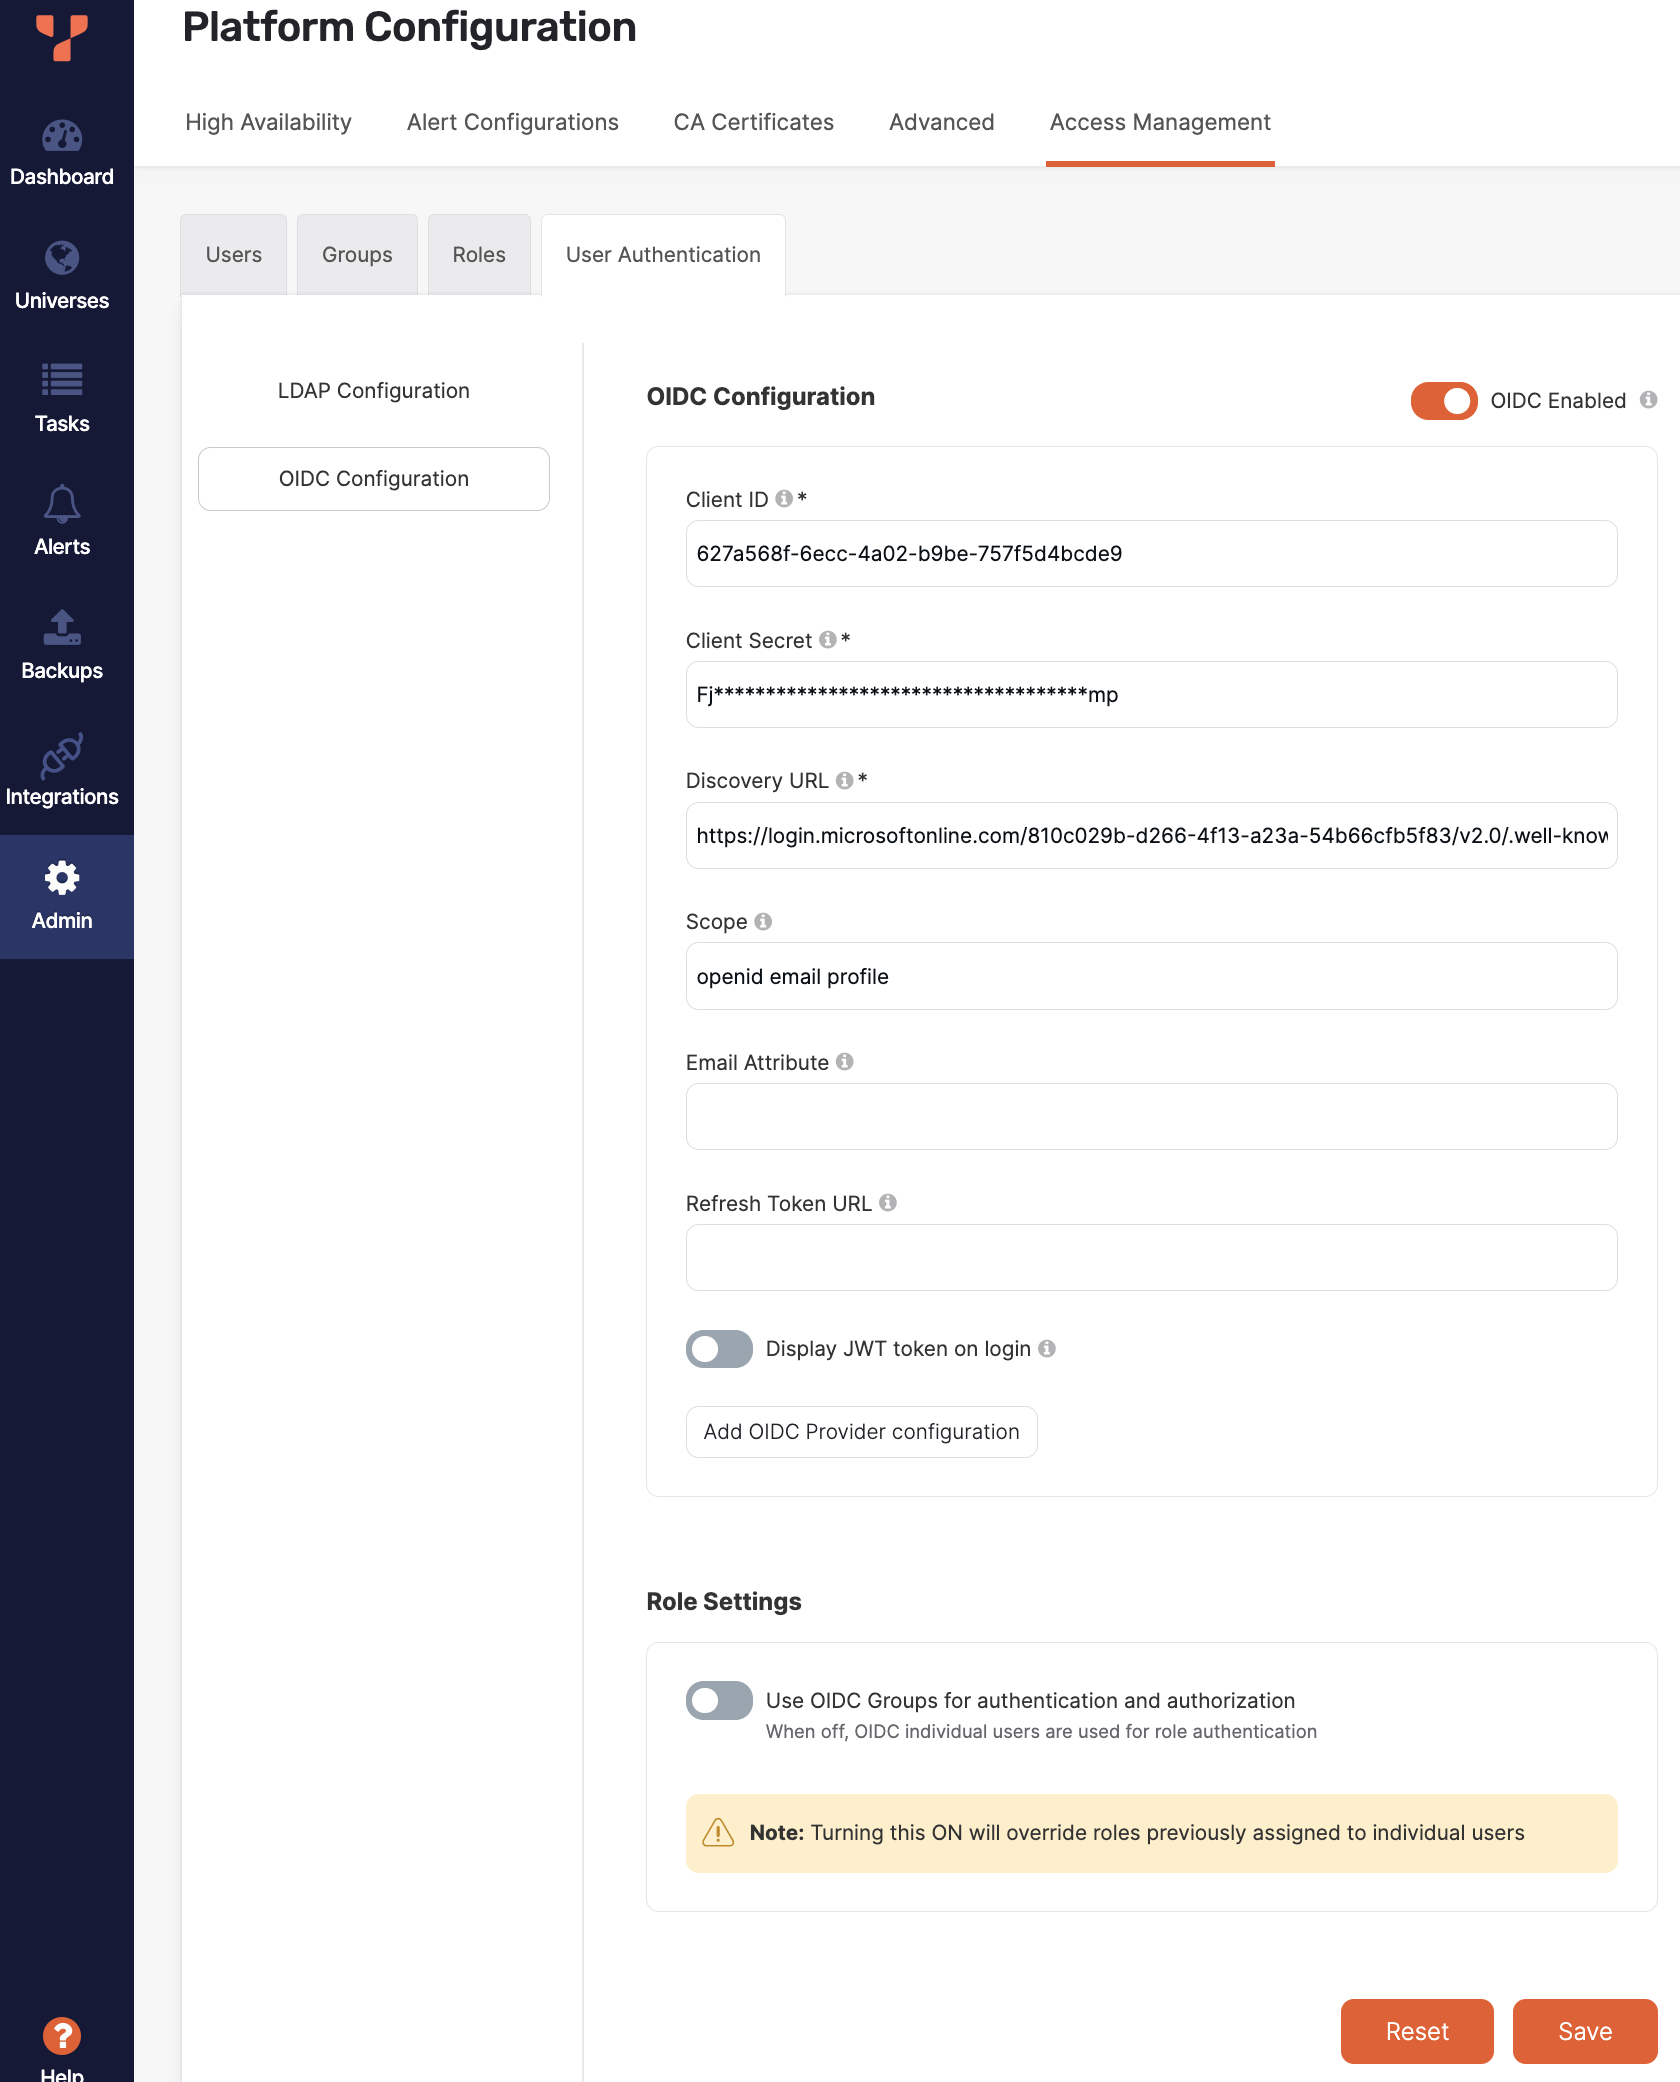
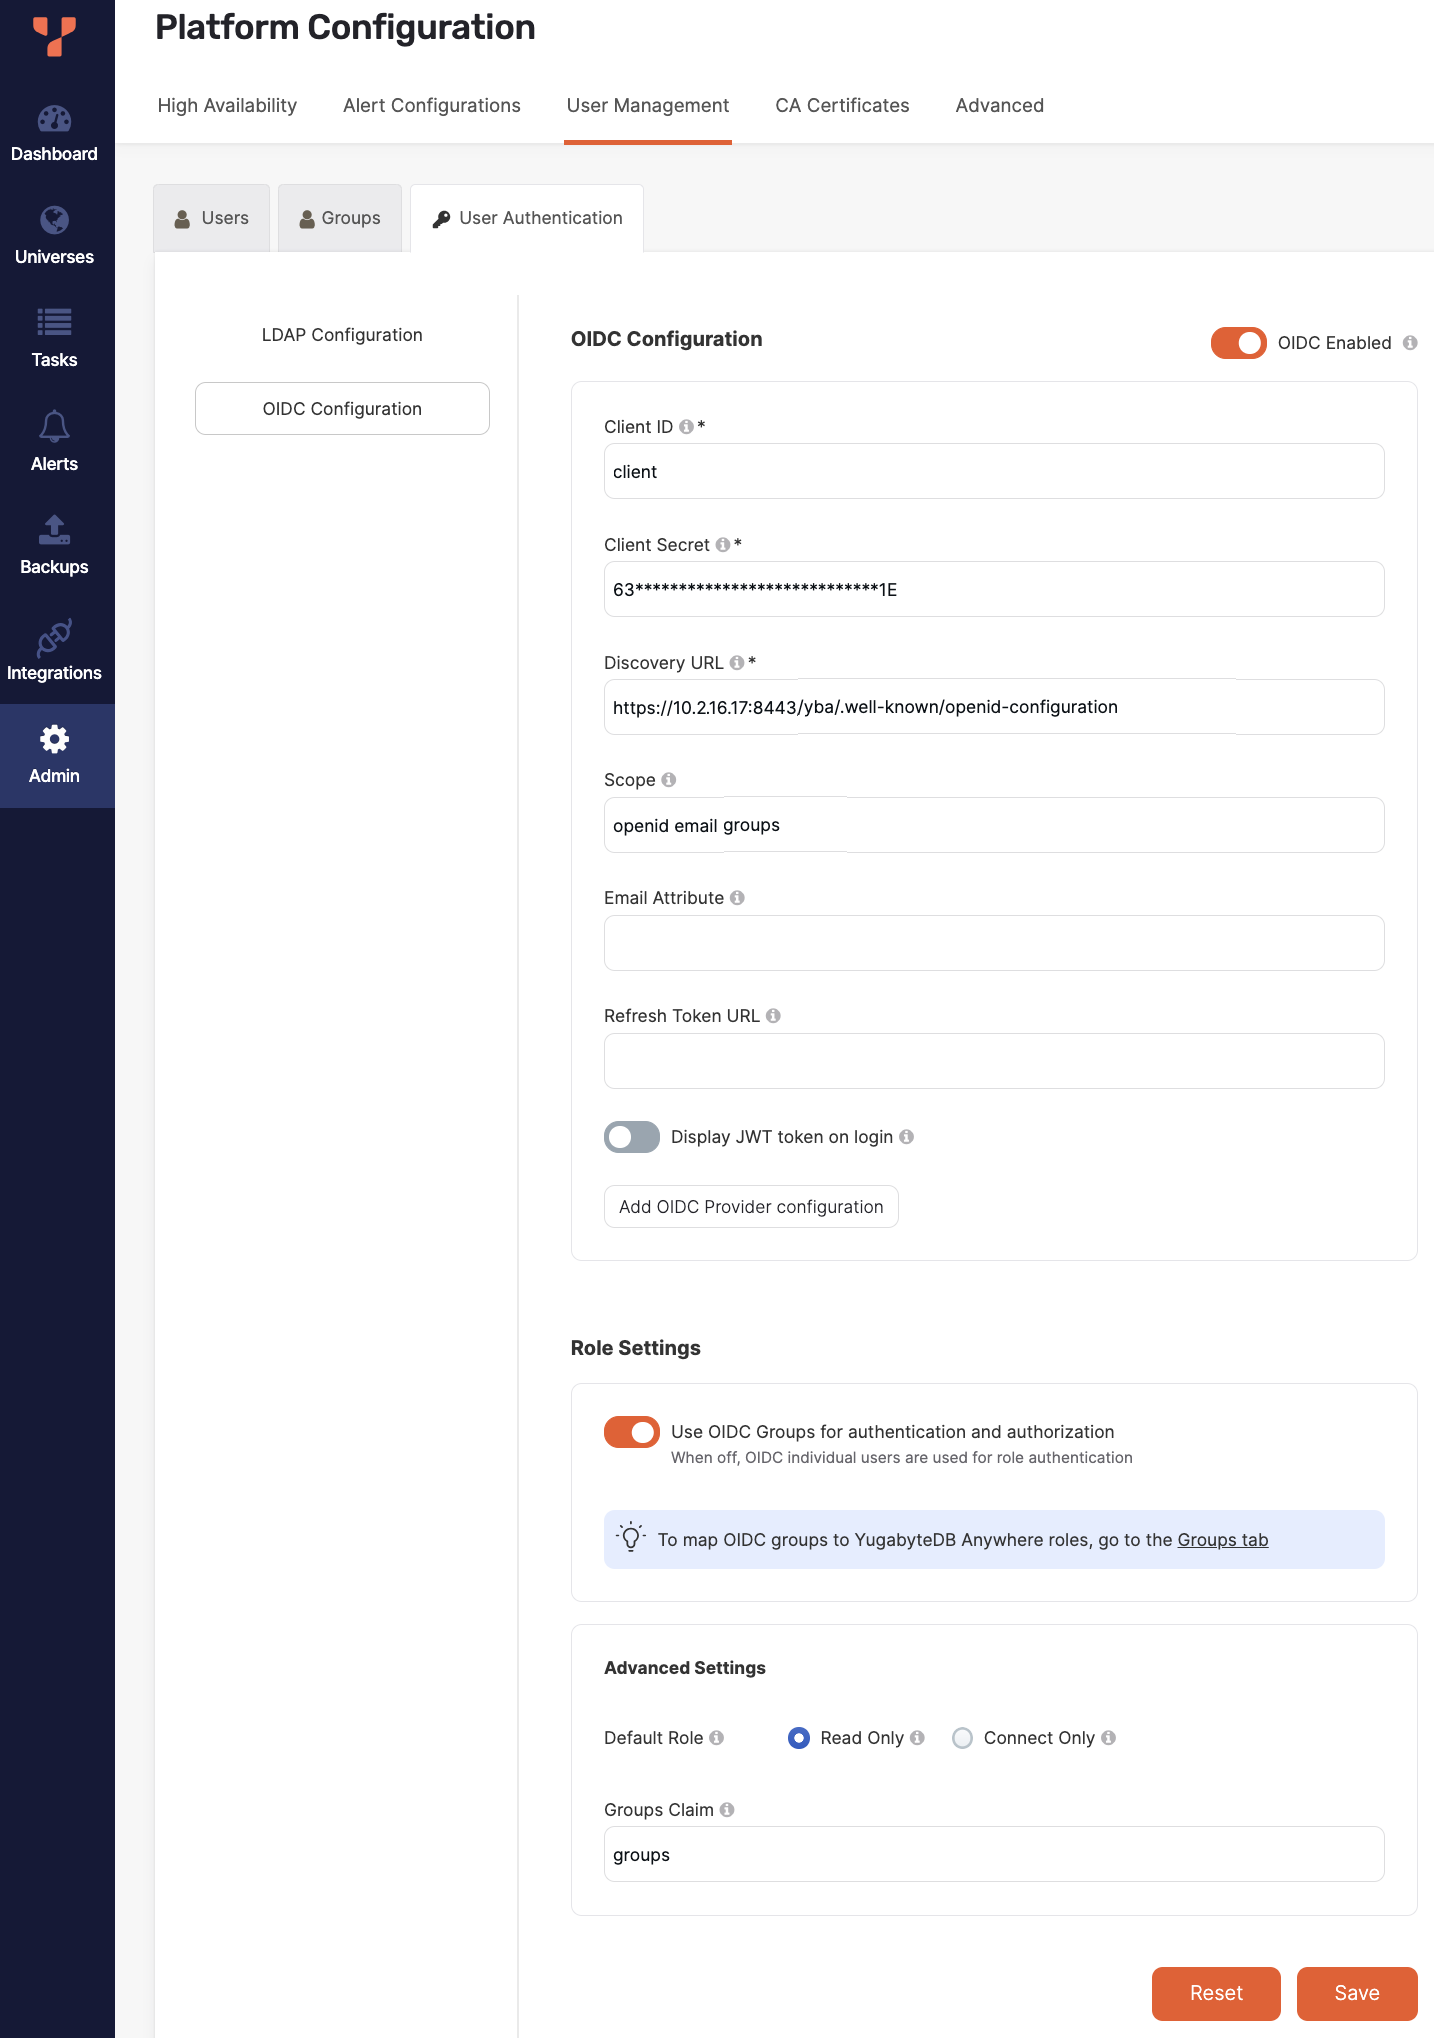
screenshot

diff --git a/docs/content/preview/yugabyte-platform/administer-yugabyte-platform/oidc-authentication.md b/docs/content/preview/yugabyte-platform/administer-yugabyte-platform/oidc-authentication.md
@@ -68,7 +68,7 @@ For air-gapped installations, where YugabyteDB Anywhere does not have access to 
 
 You configure OIDC as follows:
 
-1. Navigate to **Admin > Access Management > User Authentication > OIDC Configuration**.
+1. Navigate to **Admin > User Management > User Authentication > OIDC Configuration**.
 
 1. Select **OIDC Enabled** to turn on OIDC.
 

diff --git a/docs/content/stable/yugabyte-platform/administer-yugabyte-platform/oidc-authentication.md b/docs/content/stable/yugabyte-platform/administer-yugabyte-platform/oidc-authentication.md
@@ -68,7 +68,7 @@ For air-gapped installations, where YugabyteDB Anywhere does not have access to 
 
 You configure OIDC as follows:
 
-1. Navigate to **Admin > Access Management > User Authentication > OIDC Configuration**.
+1. Navigate to **Admin > User Management > User Authentication > OIDC Configuration**.
 
 1. Select **OIDC Enabled** to turn on OIDC.
 
